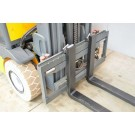
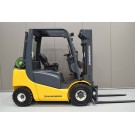
finish gallery

diff --git a/themes/stalker/css/global.css b/themes/stalker/css/global.css
@@ -9013,7 +9013,8 @@ ul {
     padding: 0 0 30px 0; }
 .item-wrap h3 {
     text-align: left;
-    margin-left: 15px; }
+    margin-left: 15px;
+    margin-bottom: 25px;}
 .item-wrap h3.cat-h3 {
     margin-left: -30px; }
 .item-wrap .carousel {
@@ -10052,3 +10053,98 @@ span.view_scroll_spacer {
 /* Small Devices, Tablets */
 /* Medium Devices, Desktops */
 /* Large Devices, Wide Screens */
+
+/*gallery for stalker*/
+.pb-left-column #image-block{
+  width: 415px;
+  height: 345px;
+  float: left;
+  margin-right: 20px;
+}
+.zoomWrapperImage{
+  height: 335px !important;
+}
+#thumbs_list ul#thumbs_list_frame{
+  width: 490px !important;
+  height: 360px !important;
+}
+#thumbs_list{
+  overflow: inherit !important;
+  position: relative;
+  margin-right: -20px;
+}
+#thumbs_list li{
+  width: 140px!important;
+  height: 100px!important;
+  margin-right: 20px!important;
+  margin-bottom: 20px!important;
+}
+#thumbs_list li a{
+  text-align: center;
+  width: 140px!important;
+  height: 100px!important;
+}
+#thumbs_list li img{
+  max-height: 100% !important;
+  max-width: 100% !important;
+  width: auto !important;
+  height: auto !important;
+}
+.item-wrap .item-container #thumbs_list img{
+  margin: 0 auto !important;
+}
+
+#view_scroll_left, #view_scroll_right{
+  display: none !important;
+}
+span.view_scroll_spacer{
+  display: none;
+}
+.zoomPad{
+  line-height: 335px;
+}
+
+.r-arrow{
+  position: absolute;
+  left: 46%;
+  width: 10px;
+  height: 32px;
+  cursor: pointer;
+}
+.r-arrow:hover{
+  cursor: pointer;
+}
+#r-arrow-top{
+  top: -25px;
+    background: url("../img/carousel_arrow_left.png");
+    -webkit-transform: rotate(90deg);
+    -moz-transform: rotate(90deg);
+    -ms-transform: rotate(90deg);
+    -o-transform: rotate(90deg);
+    transform: rotate(90deg);
+}
+#r-arrow-top:hover{
+    background: url("../img/carousel_arrow_left_yellow.png");
+    -webkit-transform: rotate(90deg);
+    -moz-transform: rotate(90deg);
+    -ms-transform: rotate(90deg);
+    -o-transform: rotate(90deg);
+    transform: rotate(90deg);
+}
+#r-arrow-bottom{
+  bottom: 0;
+    background: url("../img/carousel_arrow_right.png");
+    -webkit-transform: rotate(90deg);
+    -moz-transform: rotate(90deg);
+    -ms-transform: rotate(90deg);
+    -o-transform: rotate(90deg);
+    transform: rotate(90deg);
+}
+#r-arrow-bottom:hover{
+    background: url("../img/carousel_arrow_right_yellow.png");
+    -webkit-transform: rotate(90deg);
+    -moz-transform: rotate(90deg);
+    -ms-transform: rotate(90deg);
+    -o-transform: rotate(90deg);
+    transform: rotate(90deg);
+}
